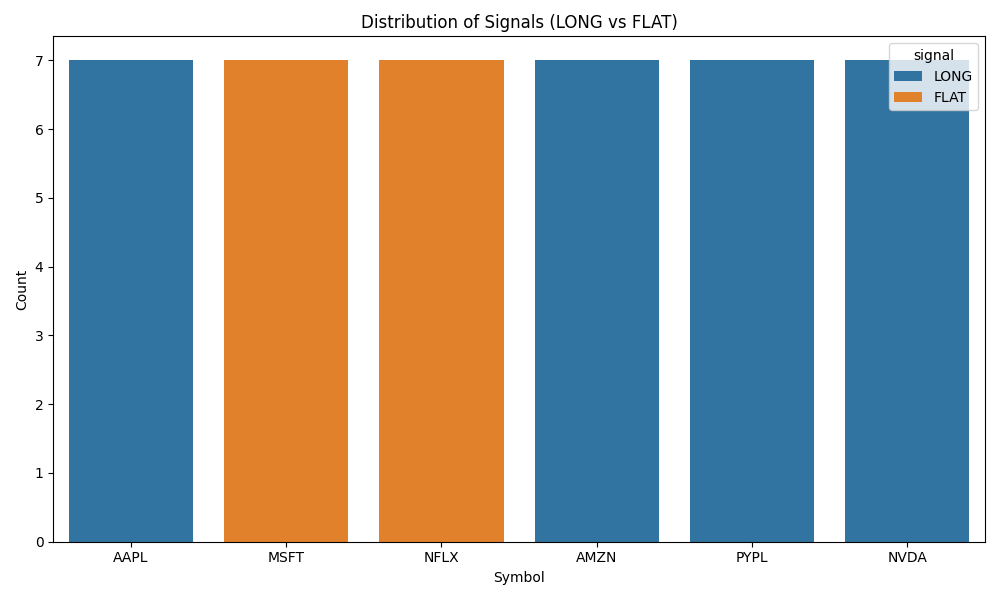
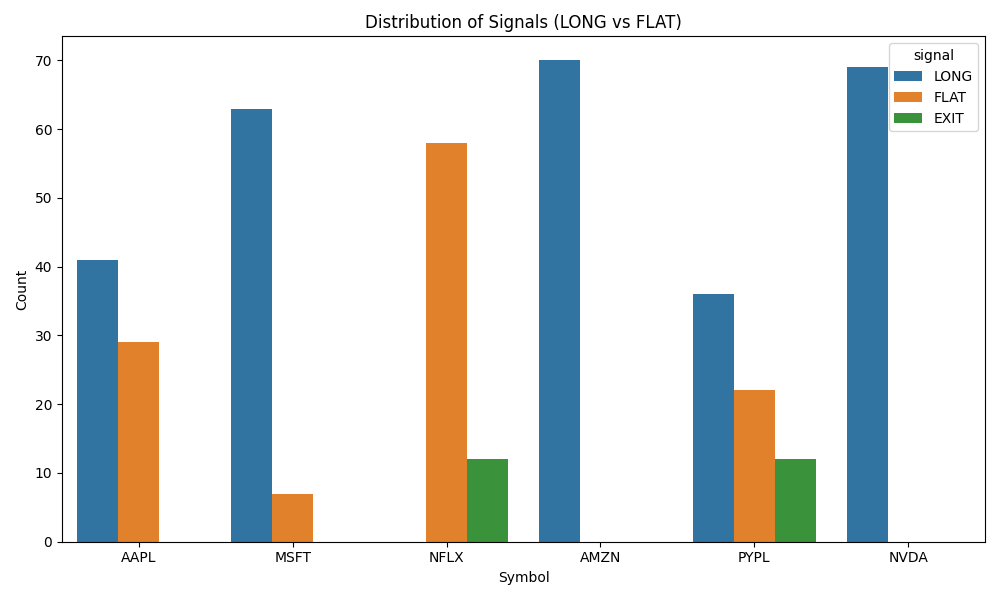
Iteration 1: Update for step 9

diff --git a/scripts/09_deployment_papertrade.py b/scripts/09_deployment_papertrade.py
@@ -11,22 +11,26 @@ from alpaca.data.requests import NewsRequest
 import pandas as pd
 import matplotlib.pyplot as plt
 import seaborn as sns
+from fastapi import FastAPI
 
 # Load API credential from YAML configuration file
 print("Loading configuration...")
 keys = yaml.safe_load(open("../data/conf/keys.yaml"))
+#keys = yaml.safe_load(open("/conf/keys.yaml"))
 API_KEY = keys["KEYS"]["APCA-API-KEY-ID-Data"]
 SECRET_KEY = keys["KEYS"]["APCA-API-SECRET-KEY-Data"]
+BASE_URL = keys["KEYS"]["APCA-BASE-URL-Data"]
 
 params = yaml.safe_load(open("../data/conf/params.yaml"))
 PATH_BARS = params['DATA_ACQUISITON']['DATA_PATH']
 SYMBOLS = params["DATA_ACQUISITON"]["SYMBOLS"]
 PATH_FIGURE = params['DATA_UNDERSTANDING']['FIGURE_PATH']
-BASE_URL = "https://paper-api.alpaca.markets"
 
 # Load trained model
-model = joblib.load(f"{PATH_BARS}/random_forest_model_news.pkl")
-
+model = joblib.load(f"{PATH_BARS}/news model/random_forest_model_news.pkl")
+print(model.feature_names_in_)
+#model = joblib.load("data/news model/random_forest_model_news.pkl")
+app = FastAPI(title="Trading API", version="1.0")
 # Trading controls
 QTY_PER_TRADE = params.get("DEPLOYMENT", {}).get("QTY_PER_TRADE", 10)
 INTERVAL_SECONDS = params.get("DEPLOYMENT", {}).get("INTERVAL_SECONDS", 60)
@@ -76,6 +80,14 @@ def build_features_from_bars(df_bars: pd.DataFrame, sentiment_label: int) -> pd.
     ema_15_accel = ema_15_series.diff().diff().iloc[-1]
     ema_30_accel = ema_30_series.diff().diff().iloc[-1]
 
+    # Volume Spike
+    roll_vol = df_bars["volume"].rolling(30, min_periods=3).mean()
+    last_roll = roll_vol.iloc[-1]
+    if pd.isna(last_roll) or last_roll == 0:
+        volume_spike = 1.0
+    else:
+        volume_spike = df_bars["volume"].iloc[-1] / last_roll
+
     # One-hot sentiment mapping to three features
     s_neg = 1 if sentiment_label == -1 else 0
     s_neu = 1 if sentiment_label == 0 else 0
@@ -98,6 +110,7 @@ def build_features_from_bars(df_bars: pd.DataFrame, sentiment_label: int) -> pd.
         "close": float(df_bars["close"].iloc[-1]),
         "volume": float(df_bars["volume"].iloc[-1]),
         "vwap": float(df_bars["vwap"].iloc[-1]),
+        "volume_spike": float(volume_spike),
         "sentiment_-1": int(s_neg),
         "sentiment_0": int(s_neu),
         "sentiment_1": int(s_pos),
@@ -194,11 +207,28 @@ def main():
                 # Build features
                 X_live = build_features_from_bars(df_bars, sentiment_label)
 
+                # Adjust features to match model's expected input
+                expected = list(model.feature_names_in_)
+                # Remove unknown features
+                X_live = X_live[[f for f in expected if f in X_live.columns]]
+                # Add missing features with default 0
+                for f in expected:
+                    if f not in X_live.columns:
+                        X_live[f] = 0
+
+                # Reorder columns
+                X_live = X_live[expected]
+
                 # Predict
                 pred = float(model.predict(X_live)[0])
 
                 # Derive signal
-                signal = "LONG" if pred > 0.0 else "FLAT"
+                if pred > 0:
+                    signal = "LONG"
+                elif pred < 0:
+                    signal = "EXIT"
+                else:
+                    signal = "FLAT"
 
                 # Optionally place paper order (commented safeguard)
                 if signal == "LONG":
@@ -213,6 +243,28 @@ def main():
                         print(f"[ORDER] LONG {symbol} qty={QTY_PER_TRADE} at ~{df_bars['close'].iloc[-1]:.2f}")
                     except Exception as oe:
                         print(f"[WARN] Order submit failed for {symbol}: {oe}")
+                elif signal == "EXIT":
+                    try:
+                        # Check if position exists
+                        try:
+                            pos = api.get_position(symbol)
+                            qty_held = float(pos.qty)
+                        except:
+                            qty_held = 0
+
+                        if qty_held >0:
+                            api.submit_order(
+                                symbol=symbol,
+                                qty=QTY_PER_TRADE,
+                                side="sell",
+                                type="market",
+                                time_in_force="gtc"
+                            )
+                            print(f"[ORDER] EXIT {symbol} qty={QTY_PER_TRADE} at ~{df_bars['close'].iloc[-1]:.2f}")
+                        else:
+                            print(f"[INFO] EXIT signal for {symbol}, but no position held. Skipping.")
+                    except Exception as oe: (
+                        print(f"[WARN] Exit order failed for {symbol}: {oe}"))
 
                 # Log event
                 log_event(
@@ -267,3 +319,15 @@ plt.tight_layout()
 plt.savefig("../images/09_paper_avg_pred.png")
 plt.close()
 
+# Plot feature importances from the model
+importances = pd.DataFrame({
+    "feature": model.feature_names_in_,
+    "importance": model.feature_importances_
+    }).sort_values("importance", ascending=False)
+plt.figure(figsize=(10,6))
+plt.barh(importances["feature"], importances["importance"])
+plt.title("Feature Importances (Random Forest)")
+plt.xlabel("Importance")
+plt.gca().invert_yaxis()
+plt.tight_layout()
+plt.savefig("../images/09_paper_feature_importances.png");plt.close()

diff --git a/scripts/09_deployment_backtest.py b/scripts/09_deployment_backtest.py
@@ -15,7 +15,15 @@ X_test = pd.read_parquet(f"{PATH_BARS}/news model/X_test_news.parquet")
 y_test = pd.read_parquet(f"{PATH_BARS}/news model/y_test_news.parquet")
 
 # Load model
-model = joblib.load(f"{PATH_BARS}/random_forest_model_news.pkl")
+model = joblib.load(f"{PATH_BARS}/news model/random_forest_model_news.pkl")
+
+# Align X_test to model features
+expected = list(model.feature_names_in_)
+X_test = X_test[[f for f in expected if f in X_test.columns]]
+for f in expected:
+    if f not in X_test.columns:
+        X_test[f] = 0
+X_test = X_test[expected]
 
 # Backtest per symbol
 results_per_symbol = []
@@ -29,6 +37,9 @@ for i, symbol in enumerate(SYMBOLS):
     mask = y_test["symbol"] == symbol
     y_test_sym = y_test.loc[mask, "future_return_30m"]
     X_test_sym = X_test.loc[mask]
+
+    # Align X_test_sym to model features
+    X_test_sym = X_test_sym[expected]
 
     # Model predictions
     pred_sym = model.predict(X_test_sym)
